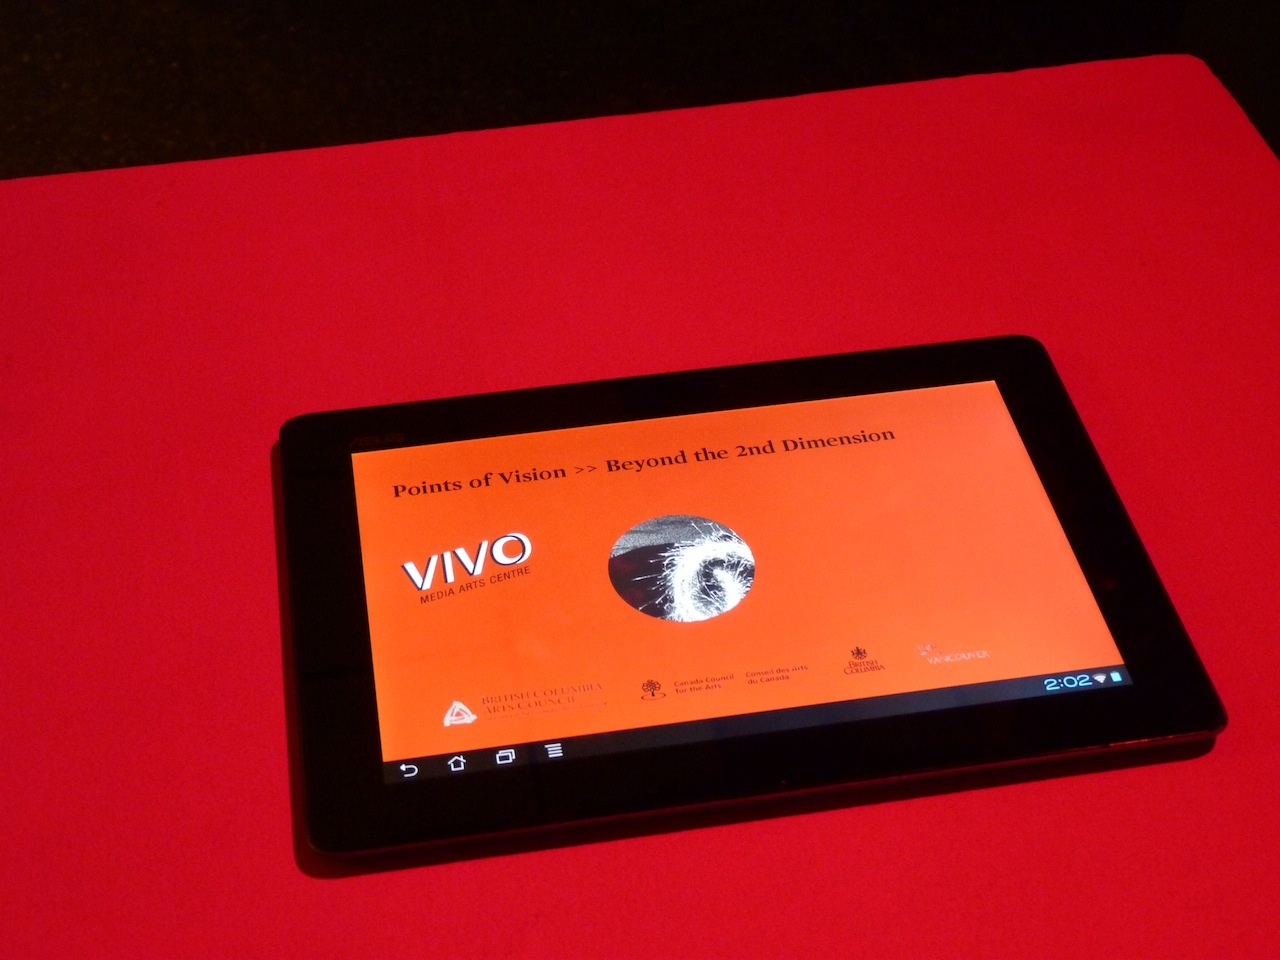
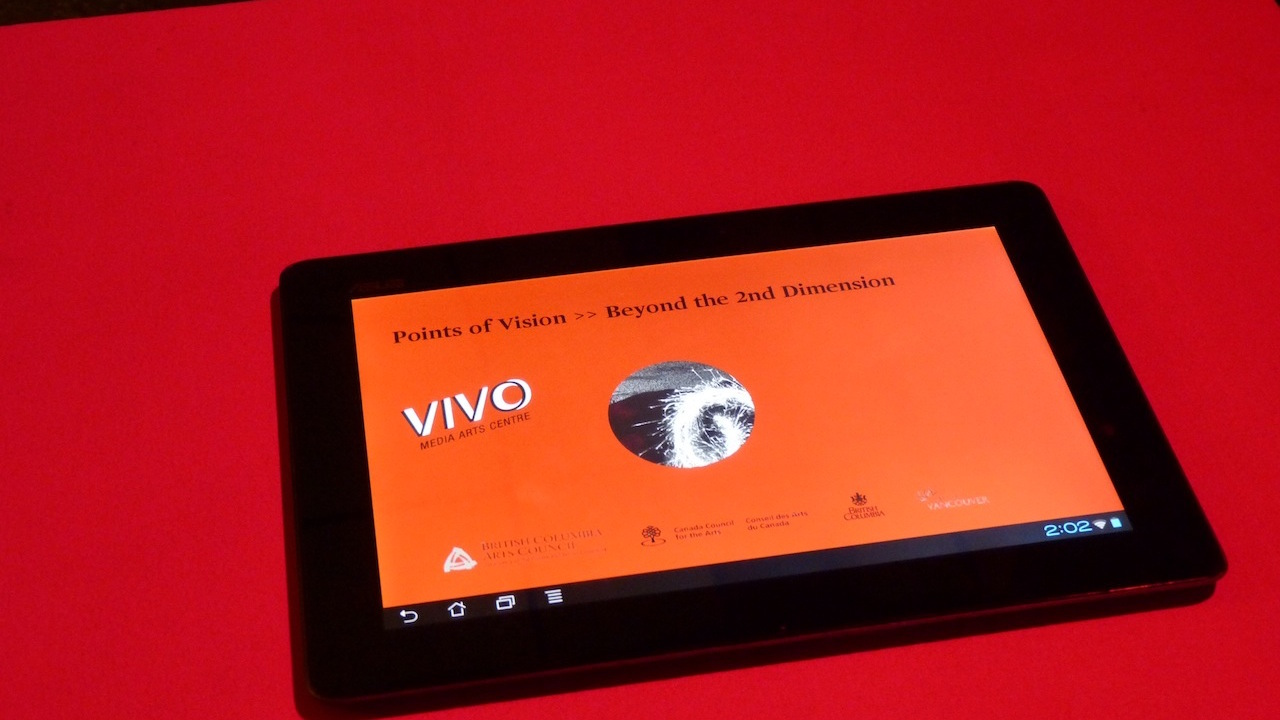
cropped image

diff --git a/notes.md b/notes.md
@@ -28,6 +28,7 @@ look for missing projects
 ## media
 
 BT - add more ? (HM)
+SS - add video / make video
 <!-- ViewBook - make video -->
 Noded - make video
 Moonlight - make video
@@ -47,3 +48,8 @@ TAB - make ? get ?
 <!-- add cinecitta -->
 <!-- add cocities -->
 <!-- add royalty free  -->
+
+
+## optim
+
+TinyJPG !!!
